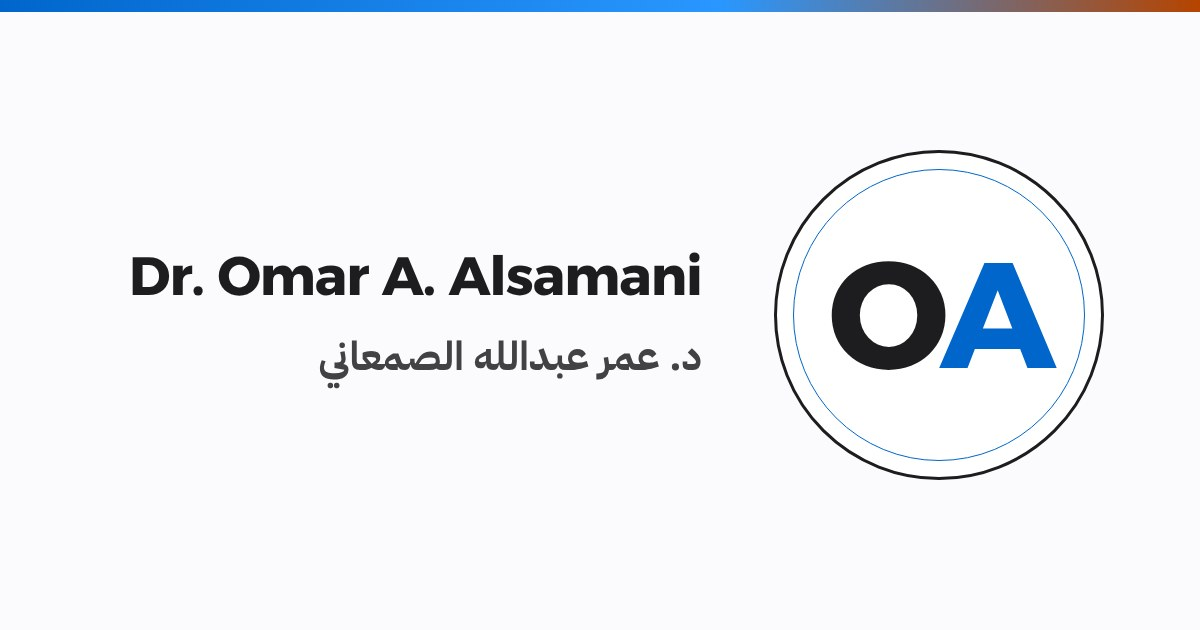
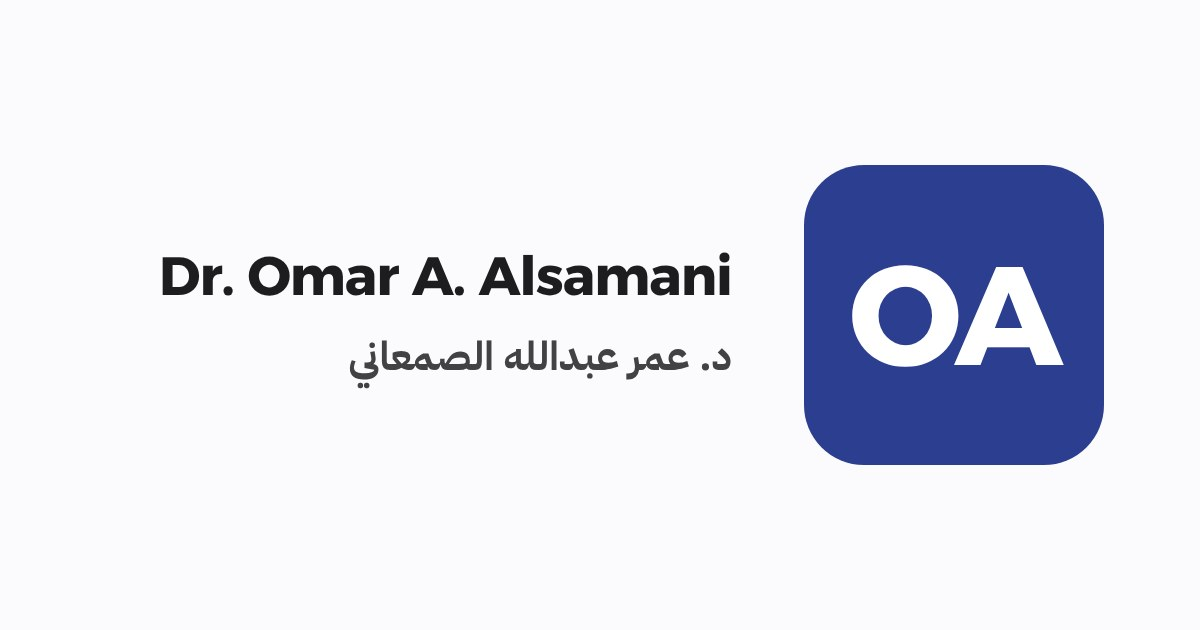
Share card: the initials in the site's single navy mark
Claude-Session: https://claude.ai/code/session_01YMViJ1M6kgQFb3eTNHCvJr

diff --git a/_src/tools/og_brand.js b/_src/tools/og_brand.js
@@ -4,10 +4,8 @@ const MARK = `<svg class="md-mark" viewBox="0 0 48 48" aria-hidden="true"><rect 
 const font = '<link href="https://fonts.googleapis.com/css2?family=IBM+Plex+Sans+Arabic:wght@400;500;700&family=Alexandria:wght@500;700&display=block" rel="stylesheet">';
 const site = `<!doctype html><html lang="ar" dir="rtl"><head><meta charset="utf-8">${font}<style>*{margin:0;box-sizing:border-box}
 body{width:1200px;height:630px;font-family:"IBM Plex Sans Arabic",sans-serif;background:#fbfbfd;color:#1d1d1f;display:flex;align-items:center;gap:72px;padding:0 96px;position:relative;overflow:hidden}
-body:before{content:"";position:absolute;inset:0 0 auto 0;height:12px;background:linear-gradient(90deg,#0066CC,#2997FF 60%,#B64400)}
-.oa{flex:none;width:330px;height:330px;border-radius:50%;border:3px solid #1d1d1f;display:grid;place-items:center;position:relative;background:#fff}
-.oa:after{content:"";position:absolute;inset:16px;border-radius:50%;border:1.5px solid #0066CC}
-.oa b{font-family:Alexandria,sans-serif;font-weight:700;font-size:150px;letter-spacing:-6px;direction:ltr;line-height:1}.oa b i{font-style:normal;color:#0066CC}
+.oa{flex:none;width:300px;height:300px;border-radius:60px;background:#2C3E8F;display:grid;place-items:center}
+.oa b{font-family:Alexandria,sans-serif;font-weight:700;font-size:140px;letter-spacing:-4px;direction:ltr;line-height:1;color:#fff}.oa b i{font-style:normal}
 .t{display:flex;flex-direction:column;gap:18px}.en{direction:ltr;text-align:right;font-family:Alexandria,sans-serif;font-size:54px;font-weight:700;letter-spacing:-1px}
 .ar{font-size:40px;font-weight:700;color:#424245}.s{font-size:27px;color:#6e6e73;line-height:1.6;margin-top:10px}.u{direction:ltr;text-align:right;font-size:26px;color:#B64400;font-weight:500;margin-top:18px}</style></head>
 <body><div class="oa"><b>O<i>A</i></b></div><div class="t"><p class="en">Dr. Omar A. Alsamani</p><p class="ar">د. عمر عبدالله الصمعاني</p>
